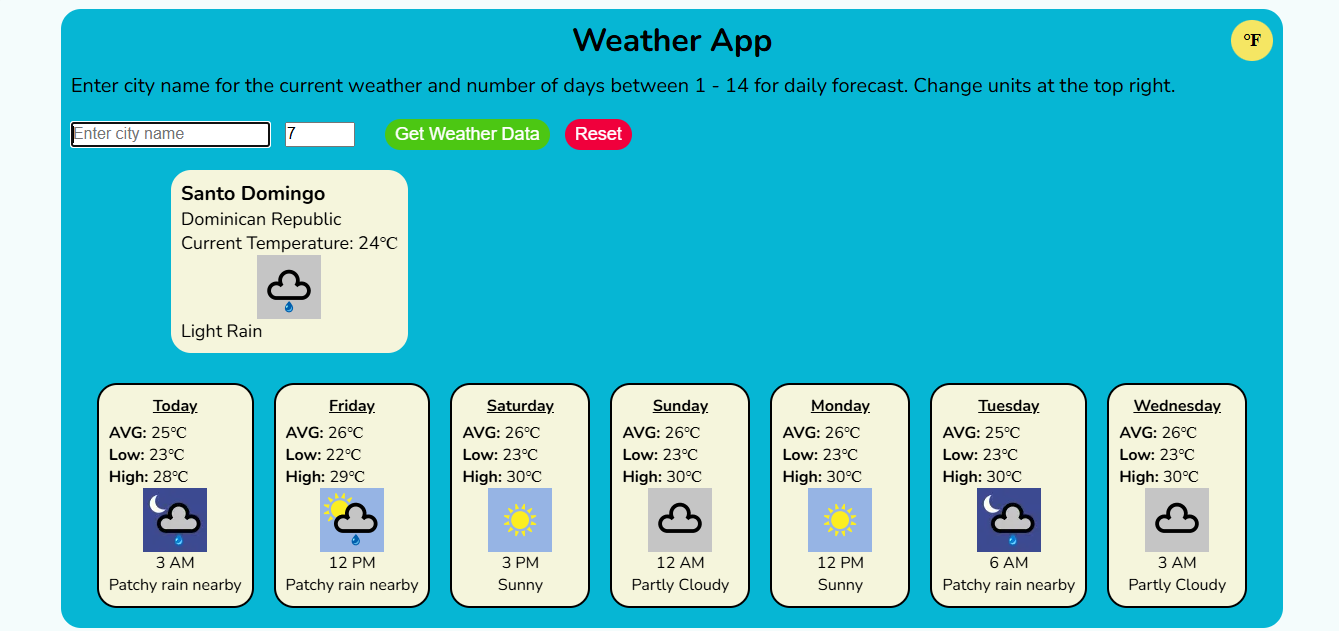
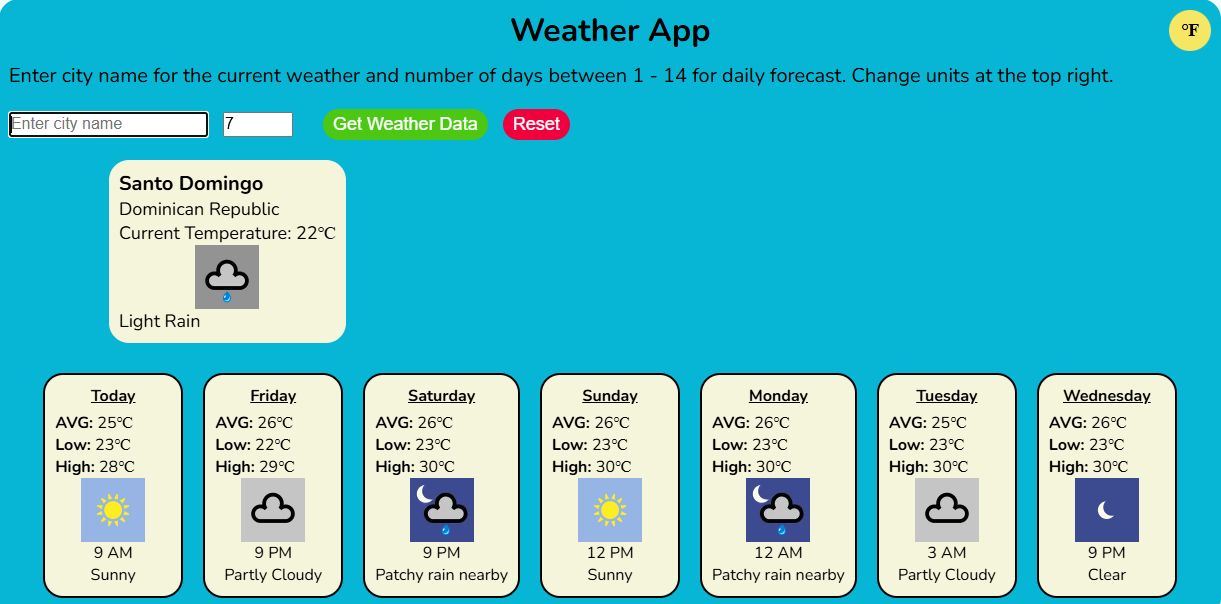
add weather app project card

diff --git a/index.css b/index.css
@@ -181,30 +181,43 @@ nav li a {
   min-height: 300px;
   margin: 0 auto;
   margin-top: 50px;
-  background-color: antiquewhite;
+  /* background-color: antiquewhite; */
   display: flex;
   flex-direction: row;
   justify-content: space-evenly;
 }
 
+.projectsContainer a {
+  text-decoration: none;
+  color: black;
+}
+
 .projectCard {
-  background-color: #778da9;
+  background-color:antiquewhite ;
+  /* background-color: #778da9; */
   border-radius: 10px;
-  width: 250px;
-  height: 300px;
+  width: 350px;
+  height: 450px;
   display: flex;
   flex-direction: column;
 }
 
 .cardImg {
-  width: 250px;
+  width: 350px;
   border-top-left-radius: 10px;
   border-top-right-radius: 10px;
 }
 
 .projectCard h4 {
   text-align: center;
-  margin-top: 10px;
+  margin-top: 20px;
+  font-size: 22px;
+  text-decoration: underline;
+}
+
+.projectCard p {
+  margin-top: 5px;
+  padding: 15px;
 }
 
 #contact {

diff --git a/index.html b/index.html
@@ -22,7 +22,7 @@
     <img src="./images/code.png" alt="Site Logo">
     <ul>
       <li><a href="#about-me">About Me</a></li>
-      <li><a href="#skills">Projects</a></li>
+      <li><a href="#projects">Projects</a></li>
       <li><a href="#contact">Contact</a></li>
     </ul>
   </nav>
@@ -84,10 +84,15 @@
     <h3>Projects</h3>
     <div class="projectsContainer">
 
+      <a href="https://weatherappsrcg.netlify.app/" target="_blank">
       <div class="projectCard">
         <img class="cardImg" src="./images/projects/weatherapp-update.png" alt="Weather App Image">
         <h4>Weather App</h4>
+        <p>Weather application using React and World weather API. When the user inputs a city, the application provides current weather data, and a 7 day forecast by default consisting of low, high, and average daily temperature. The user can change the daily forecast from1 to 14 days, and toggle display temperatures between ℃ and ℉.</p>
       </div>
+      </a>
+
+
       <div class="projectCard"></div>
       <div class="projectCard"></div>
 